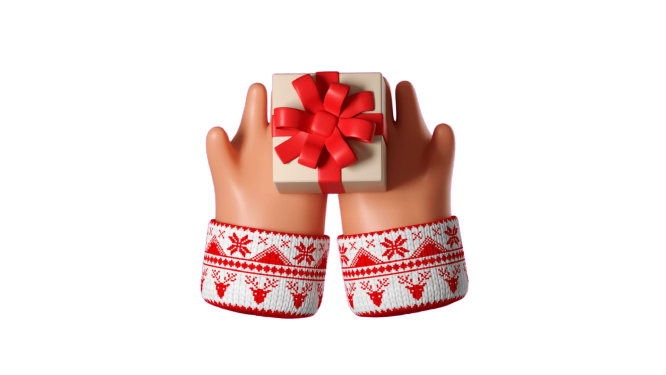
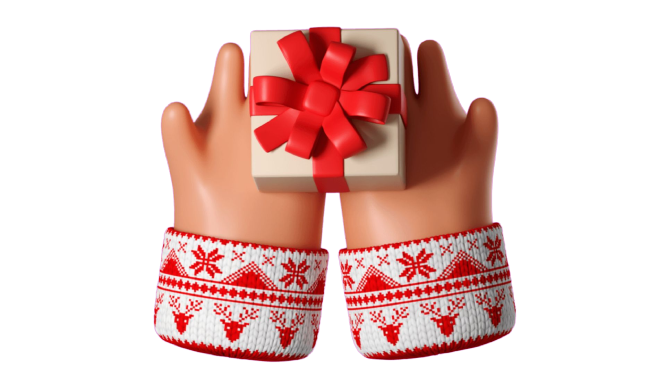
imagens atualizadas

diff --git a/index.html b/index.html
@@ -50,7 +50,7 @@
 
         <img class="images" src="img/presentee.png" alt="imagem ilustrativa de uma caixa de presente">
          
-        <img class="images" src="img/sinoo.png" alt="imagem ilustrativa de um sino de natal">
+        <img class="images" src="img/sino.png" alt="imagem ilustrativa de um sino de natal">
 
         <img class="images" src="img/doce.png"  alt="imagem ilustrativa de um doce">
 
@@ -74,7 +74,7 @@
     </div>
 
     <div class="three_section" arial-label="seção de doação">
-        <img src="img/mmaos.png" alt="foto ilustrativa das mãos segurando um presente">
+        <img src="img/maos.png" alt="foto ilustrativa das mãos segurando um presente">
         <h1>Comemore com muito amor!</h1>
         <h3>Nestes feriados, festeje com muito amor e paz, oferecendo muitas bênçãos aos nossos entes queridos, amigos e vizinhos, desejando-lhes um Feliz Natal.</h3>
         <button class="second_button_doacao"><i class="fa-solid fa-gift"></i>Fazer doação</button>
